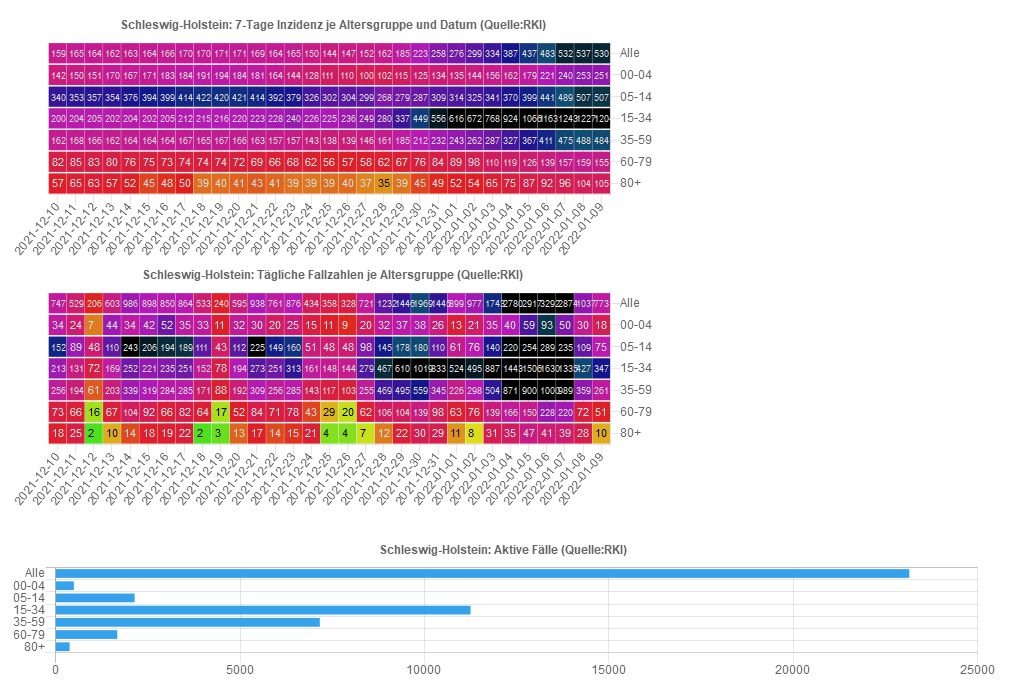
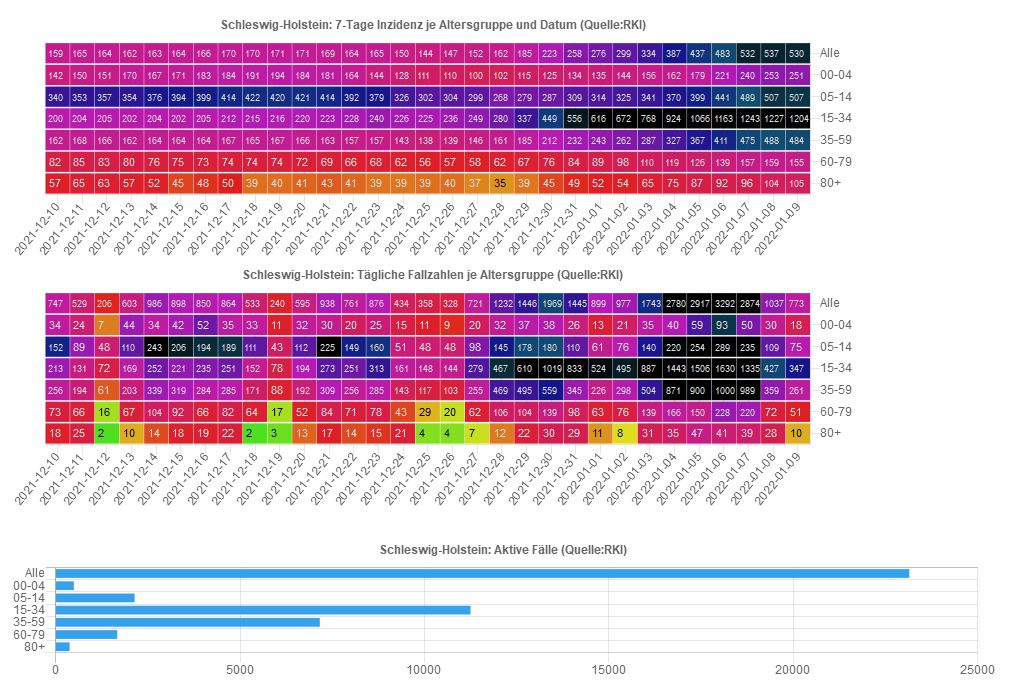
10.01.2022 17:03:50,51

diff --git a/sh/index_pi_alter.html b/sh/index_pi_alter.html
@@ -5,7 +5,7 @@
 <meta property="og:image" content="index_pi_alter.jpg" />
 <meta property="og:type" content="website" />
 <meta property="og:locale" content="de_DE" />
-<meta property="og:updated_time" content="2022-01-10T14:27:19+01:00" />
+<meta property="og:updated_time" content="2022-01-10T17:03:49+01:00" />
 <title>Altersverteilung der COVID-19-Fälle im Kreis Pinneberg</title>
 <link rel="stylesheet" href="../css/style.css" media="screen" type="text/css">
 <link rel="stylesheet" media="screen" href="Chart.min.css"> 
@@ -22,8 +22,8 @@
 <p>Quelle / Stand: <a href="https://npgeo-corona-npgeo-de.hub.arcgis.com/datasets/dd4580c810204019a7b8eb3e0b329dd6_0">NPGEO Corona (RKI)</a>: <span id="rki_date"></span></p>
 <!--<canvas id="myChart" style="width:1200px;height: 250px;"></canvas>
 <canvas id="myChart3" style="width:1200px;height: 250px;"></canvas> -->
-<canvas id="myChart" style="width:650px;height: 250px;"></canvas>
-<canvas id="myChart3" style="width:650px;height: 250px;"></canvas>
+<canvas id="myChart" style="width:850px;height: 250px;"></canvas>
+<canvas id="myChart3" style="width:850px;height: 250px;"></canvas>
 <!-- <br/><canvas id="legend" style="width:990px;height: 50px;padding-left:35px"></canvas> -->
 <br/><canvas id="myChart2" style="width:990px;height: 150px;"></canvas>
 <h2 id="Anmerkungen">Anmerkungen</h2>
@@ -93,9 +93,10 @@ for (i=0; i<chdata.options.scales.xAxes[0].labels.length; i++) {
 
 //Inzidenzen als Annotations
 //var cellXWid=1111 / lblLen //1200px
-var cellXWid=561 / lblLen //650px
+var cellXWid=766 / lblLen //850px
+//var cellXWid=561 / lblLen //650px
 
-console.log(dataLen+"_"+chdata.data.datasets[0].data.length+"_"+lblLen+"_"+cellXWid)
+console.log(dataLen+"_"+chdata.data.datasets[0].data.length+"_"+lblLen+", Cellxwid: "+cellXWid)
 
 /*chdata.data.datasets[0].width = 
             function(context) {
@@ -198,7 +199,8 @@ for (i=0; i<chdata3.options.scales.xAxes[0].labels.length; i++) {
 
 //Fälle als Annotations
 //var cellXWid=1111 / chdata3.options.scales.xAxes[0].labels.length //1200px
-var cellXWid=561/ chdata3.options.scales.xAxes[0].labels.length
+var cellXWid=766 / chdata3.options.scales.xAxes[0].labels.length //850px
+//var cellXWid=561/ chdata3.options.scales.xAxes[0].labels.length
 for (i=0; i<chdata3.data.datasets[0].data.length;i++) {
     var rec=chdata3.data.datasets[0].data[i]
     var oneAnnot = {

diff --git a/sh/index_sh_alter.html b/sh/index_sh_alter.html
@@ -5,7 +5,7 @@
 <meta property="og:image" content="index_sh_alter.jpg" />
 <meta property="og:type" content="website" />
 <meta property="og:locale" content="de_DE" />
-<meta property="og:updated_time" content="2022-01-10T14:27:19+01:00" />
+<meta property="og:updated_time" content="2022-01-10T17:03:49+01:00" />
 <title>Altersverteilung der COVID-19-Fälle in Schleswig-Holstein</title>
 <link rel="stylesheet" href="../css/style.css" media="screen" type="text/css">
 <link rel="stylesheet" media="screen" href="Chart.min.css"> 
@@ -22,8 +22,8 @@
 <p>Quelle / Stand: <a href="https://npgeo-corona-npgeo-de.hub.arcgis.com/datasets/dd4580c810204019a7b8eb3e0b329dd6_0">NPGEO Corona (RKI)</a>: <span id="rki_date"></span></p>
 <!--<canvas id="myChart" style="width:1200px;height: 250px;"></canvas>
 <canvas id="myChart3" style="width:1200px;height: 250px;"></canvas> -->
-<canvas id="myChart" style="width:650px;height: 250px;"></canvas>
-<canvas id="myChart3" style="width:650px;height: 250px;"></canvas>
+<canvas id="myChart" style="width:850px;height: 250px;"></canvas>
+<canvas id="myChart3" style="width:850px;height: 250px;"></canvas>
 <!-- <br/><canvas id="legend" style="width:990px;height: 50px;padding-left:35px"></canvas> -->
 <br/><canvas id="myChart2" style="width:990px;height: 150px;"></canvas>
 <h2 id="Anmerkungen">Anmerkungen</h2>
@@ -93,7 +93,8 @@ for (i=0; i<chdata.options.scales.xAxes[0].labels.length; i++) {
 
 //Inzidenzen als Annotations
 //var cellXWid=1111 / lblLen //1200px
-var cellXWid=561 / lblLen //650px
+var cellXWid=766 / lblLen //850px
+//var cellXWid=561 / lblLen //650px
 
 console.log(dataLen+"_"+chdata.data.datasets[0].data.length+"_"+lblLen+"_"+cellXWid)
 
@@ -198,7 +199,8 @@ for (i=0; i<chdata3.options.scales.xAxes[0].labels.length; i++) {
 
 //Fälle als Annotations
 //var cellXWid=1111 / chdata3.options.scales.xAxes[0].labels.length //1200px
-var cellXWid=561/ chdata3.options.scales.xAxes[0].labels.length
+var cellXWid=766/ chdata3.options.scales.xAxes[0].labels.length //850px
+//var cellXWid=561/ chdata3.options.scales.xAxes[0].labels.length
 for (i=0; i<chdata3.data.datasets[0].data.length;i++) {
     var rec=chdata3.data.datasets[0].data[i]
     var oneAnnot = {

diff --git a/sh/index_sh_kreise.html b/sh/index_sh_kreise.html
@@ -5,7 +5,7 @@
 <meta property="og:image" content="index_sh_kreise.jpg" />
 <meta property="og:type" content="website" />
 <meta property="og:locale" content="de_DE" />
-<meta property="og:updated_time" content="2022-01-10T14:27:19+01:00" />
+<meta property="og:updated_time" content="2022-01-10T17:03:49+01:00" />
 <title>COVID-19-Fälle im Kreis Pinneberg (und anderen Kreisen in SH)</title>
 <link rel="stylesheet" href="../css/style.css" media="screen" type="text/css">
 <link rel="stylesheet" media="screen" href="Chart.min.css"> 
